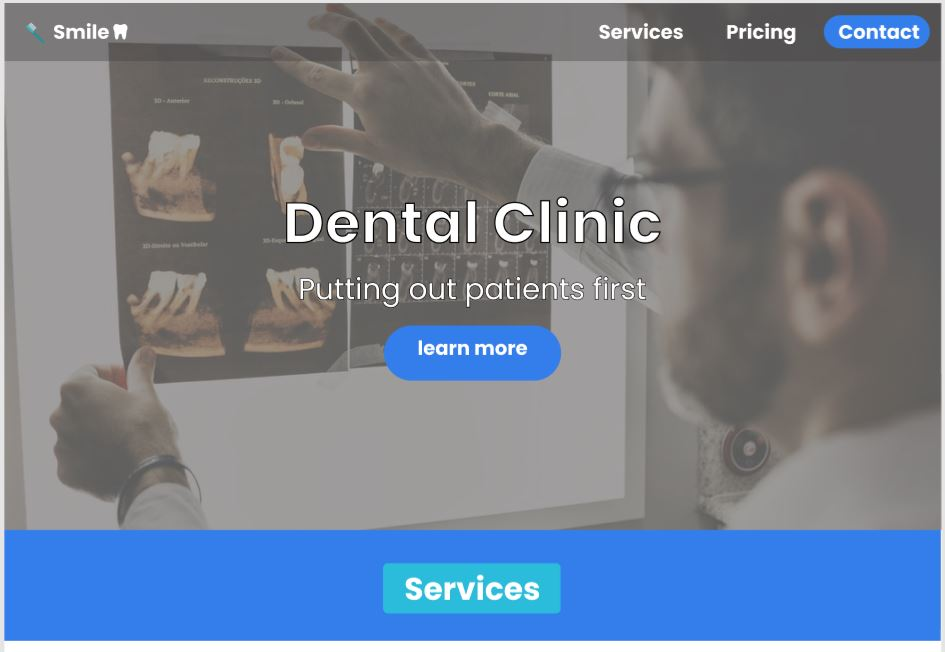
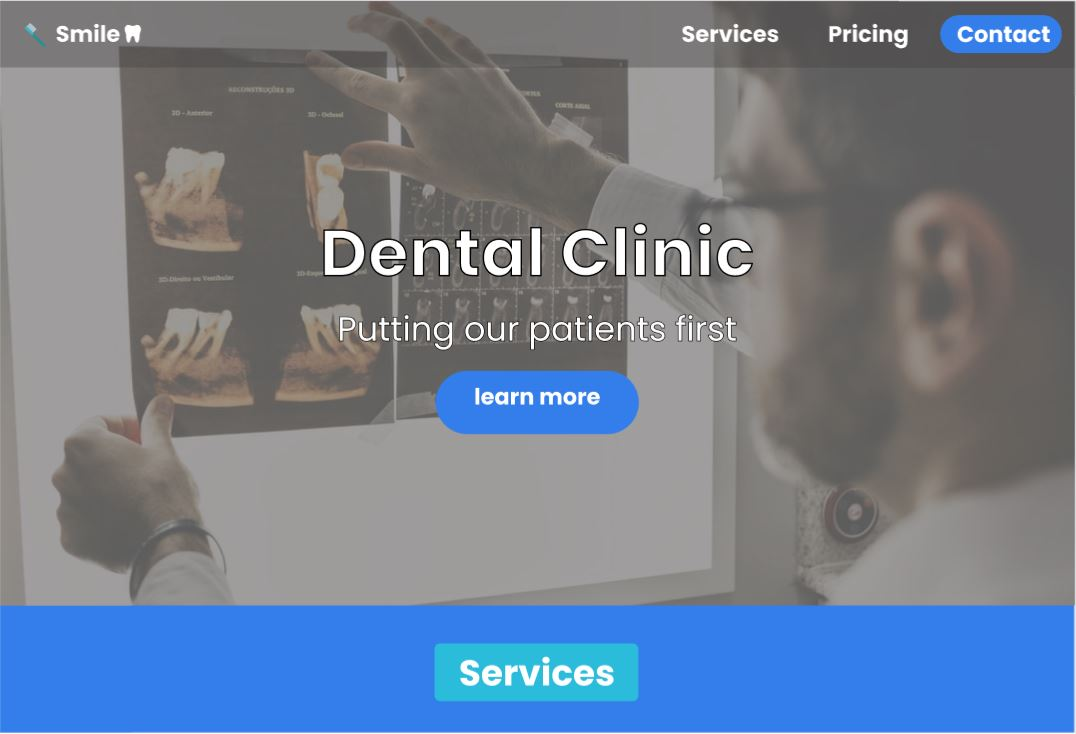
13/10/2020
added steam to the projects and upaded the dental clinic section

diff --git a/projects.html b/projects.html
@@ -37,3 +37,14 @@
                             <h3>Explore the wild</h3>
                             <p>Explore the Wild is a travel design for a travel agency that specialises is in package trips to jungles and forrests across the world.</p>
                         </div>
+        <section id="three" class="main style1 special">
+                <div class="container">
+                    <header class="major">
+                        <h2>Game Clients</h2>
+                            </header>
+                            <div class="row gtr-150">
+                                <div class="col-4 col-12-medium">
+                                    <span class="image fit"><a href="https://www.figma.com/file/1Isp9wfCt7TeKTTmXj0lEG/Steam-Client?node-id=0%3A1"><img src="images/steam-client.JPG"></span></a>
+                                    <h3>Steam library redesign</h3>
+                                    <p>This is a redesign of the Steam library game client</p>
+                                </div>
